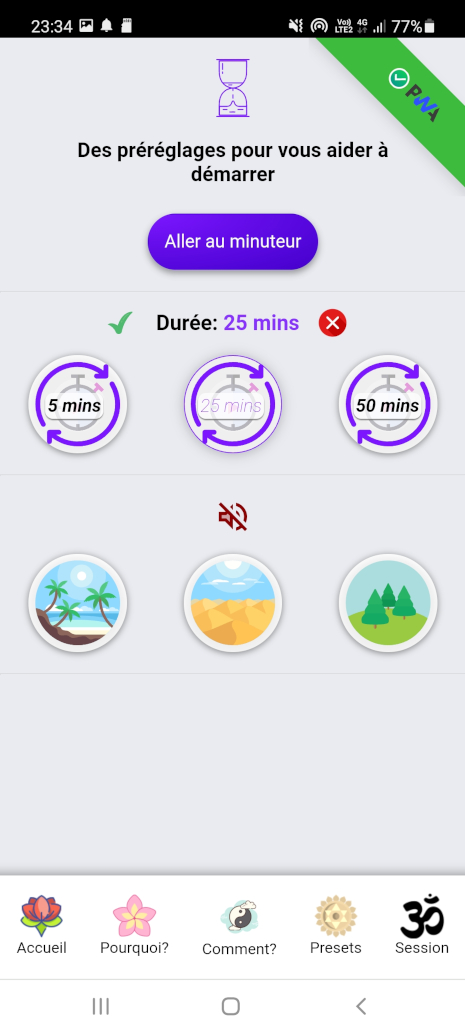
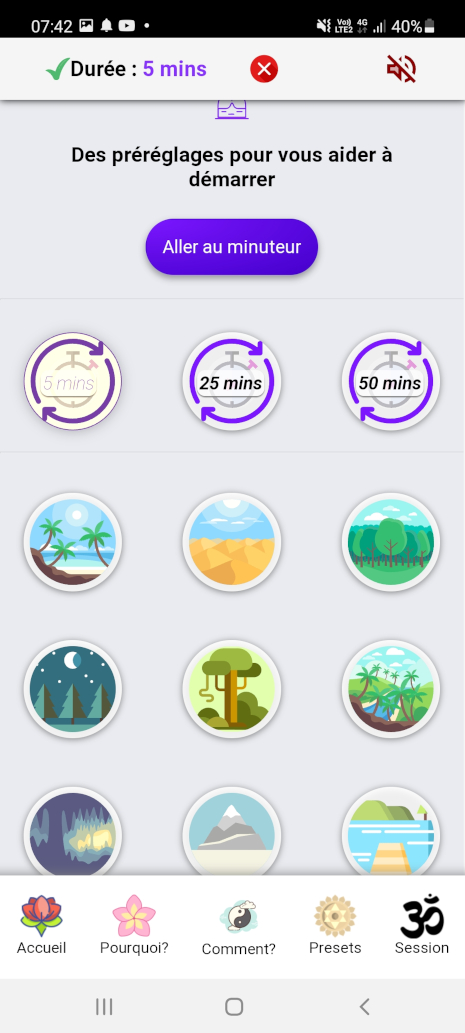
sme changement

diff --git a/README.md b/README.md
@@ -178,6 +178,9 @@ Ce message vous invite à installer l'application.
 ---
 
 **:heavy_check_mark: 15 Sons environnementaux sont disponibles, comme par exemple, la plage, le désert, la forêt, etc...**
+
+>![debutant](demo/levels/sounds-debutant.jpg)
+
 >:heavy_exclamation_mark: Tous ces sons sont parfaits pour travailler la concentration, la visualisation et la respiration... Les trois piliers de votre apprentissage pour les débutants, ou une belle promenade mentale pour les plus initiés !
 
 ---
@@ -198,6 +201,9 @@ Ce message vous invite à installer l'application.
 ---
 
 **:heavy_check_mark: 9 mantras musicaux en sanskrit sont ajoutés, comme par exemple, om namah shivaya, dhyan mantra, harekrishna flûte, etc...**
+
+>![intermediaire](demo/levels/sounds-intermed.jpg)
+
 >:heavy_exclamation_mark: Les mantras sont bien connus pour avoir des vertus pour le corps et l'esprit !
 
 ---
@@ -218,6 +224,9 @@ Ce message vous invite à installer l'application.
 ---
 
 **:heavy_check_mark: 9 Sons alignés sur une fréquence sont ajoutés, comme par exemple, 174Hz, 285Hz, 396Hz, etc...**
+
+>![Confirmed](demo/levels/sounds-confirmed.jpg)
+
 >:heavy_exclamation_mark: Toutes ces mélodies ont des vertus pour le corps et l'esprit (chaque vertu est affichée dans une bulle d'information lorsque vous cliquez sur un son)
 
 ---
@@ -351,7 +360,7 @@ Ce message vous invite à installer l'application.
 
 >laissez votre doigt sur l'icone de l'app une seconde environ, elle se met à danser et un menu contextuel apparaît. cliquez sur Désinst.
 
-![alt text](demo/uninstall1.jpg "My Meditation Time")
+>![alt text](demo/menu.jpg "My Meditation Time")
 
 >Une fenêtre vous demande alors, si vous souhaitez vraiment supprimer cette application. cliquez sur ok.
 
@@ -404,58 +413,61 @@ MIT
 # Mes autres projets:
 
 >### My Simple Tutorial Creator
->https://github.com/rodolphe37/my-simple-tutorial-creator
+>[https://github.com/rodolphe37/my-simple-tutorial-creator](https://github.com/rodolphe37/my-simple-tutorial-creator)
 
 >### My Simple Cam
->https://github.com/rodolphe37/my-simple-cam-dektop-app
+>[https://github.com/rodolphe37/my-simple-cam-dektop-app](https://github.com/rodolphe37/my-simple-cam-dektop-app)
+
+>### My SimpleTasks Manager (PWA version)>
+[https://github.com/rodolphe37/my-simple-tasks-manager-](https://github.com/rodolphe37/my-simple-tasks-manager-)
 
 >### My SimpleTasks Manager (software version for Linux, Mac & Windows)
->https://github.com/rodolphe37/my-simple-tasks-manager-desktop-version
+>[https://github.com/rodolphe37/my-simple-tasks-manager-desktop-version](https://github.com/rodolphe37/my-simple-tasks-manager-desktop-version)
 
 >### QRCode Tools
->https://github.com/rodolphe37/qr-code-tools
+>[https://github.com/rodolphe37/qr-code-tools](https://github.com/rodolphe37/qr-code-tools)
 
 >### App for decrypt greenPass europe QRcode
->https://github.com/rodolphe37/qrcode-decoder
+>[https://github.com/rodolphe37/qrcode-decoder](https://github.com/rodolphe37/qrcode-decoder)
 
 >### Css animation with Create React App base.
->https://github.com/rodolphe37/halloween2021-bat-tuto-youtube-video
+>[https://github.com/rodolphe37/halloween2021-bat-tuto-youtube-video](https://github.com/rodolphe37/halloween2021-bat-tuto-youtube-video)
 
 >### My GitHub "open Sources" project
->https://github.com/rodolphe37/pwa-react-project
+>[https://github.com/rodolphe37/pwa-react-project](https://github.com/rodolphe37/pwa-react-project)
 
 >### cra-template-github-my-profile
->https://github.com/rodolphe37/cra-template-github-my-profile
+>[https://github.com/rodolphe37/cra-template-github-my-profile](https://github.com/rodolphe37/cra-template-github-my-profile)
 
 >### My Awesome Custom Alert
->https://github.com/rodolphe37/my-awesome-custom-alert
+>[https://github.com/rodolphe37/my-awesome-custom-alert](https://github.com/rodolphe37/my-awesome-custom-alert)
 
 >### Geolocation starter app React-native
->https://github.com/rodolphe37/react-native_geolocation-tracker
+>[https://github.com/rodolphe37/react-native_geolocation-tracker](https://github.com/rodolphe37/react-native_geolocation-tracker)
 
 >### Classic React Ultimate Messenger version repository (for open sources contributors)
->https://github.com/rodolphe37/rum-open-sources
+>[https://github.com/rodolphe37/rum-open-sources](https://github.com/rodolphe37/rum-open-sources)
 
 >### React Ultimate Messenger template for React (create-react-app tools)
->https://github.com/rodolphe37/cra-react-ultimate-messenger
+>[https://github.com/rodolphe37/cra-react-ultimate-messenger](https://github.com/rodolphe37/cra-react-ultimate-messenger)
 
 >### PWA React Ultimate Messenger template for React (create-react-app tools)
->https://github.com/rodolphe37/cra-pwa-react-ultimate-messenger
+>[https://github.com/rodolphe37/cra-pwa-react-ultimate-messenger](https://github.com/rodolphe37/cra-pwa-react-ultimate-messenger)
 
 >### installation and initialization shell script for the PWA React Ultimate Messenger template
->https://github.com/rodolphe37/pwa-rum-install-pack
+>[https://github.com/rodolphe37/pwa-rum-install-pack](https://github.com/rodolphe37/pwa-rum-install-pack)
 
 >### Upload-image-profil-component
->https://github.com/rodolphe37/Upload-image-profil-component
+>[https://github.com/rodolphe37/Upload-image-profil-component](https://github.com/rodolphe37/Upload-image-profil-component)
 
 >### Jeux libres de droits "open Sources" - Memory Yoga Cards Game - Sort the Waste Game - Match 3 Yoga Game - Tetris Classic Game - Remake Earth Puzzle Game
->https://github.com/rodolphe37/install-games-repository
+>[https://github.com/rodolphe37/install-games-repository](https://github.com/rodolphe37/install-games-repository)
 
 >### Administration template - React JS & react-admin
->https://github.com/rodolphe37/nfc-updates-front
+>[https://github.com/rodolphe37/nfc-updates-front](https://github.com/rodolphe37/nfc-updates-front)
 
 
 >### Administration template Backend - Node & Express
->https://github.com/rodolphe37/nfc-updates-back
+>[https://github.com/rodolphe37/nfc-updates-back](https://github.com/rodolphe37/nfc-updates-back)
 
 ---
